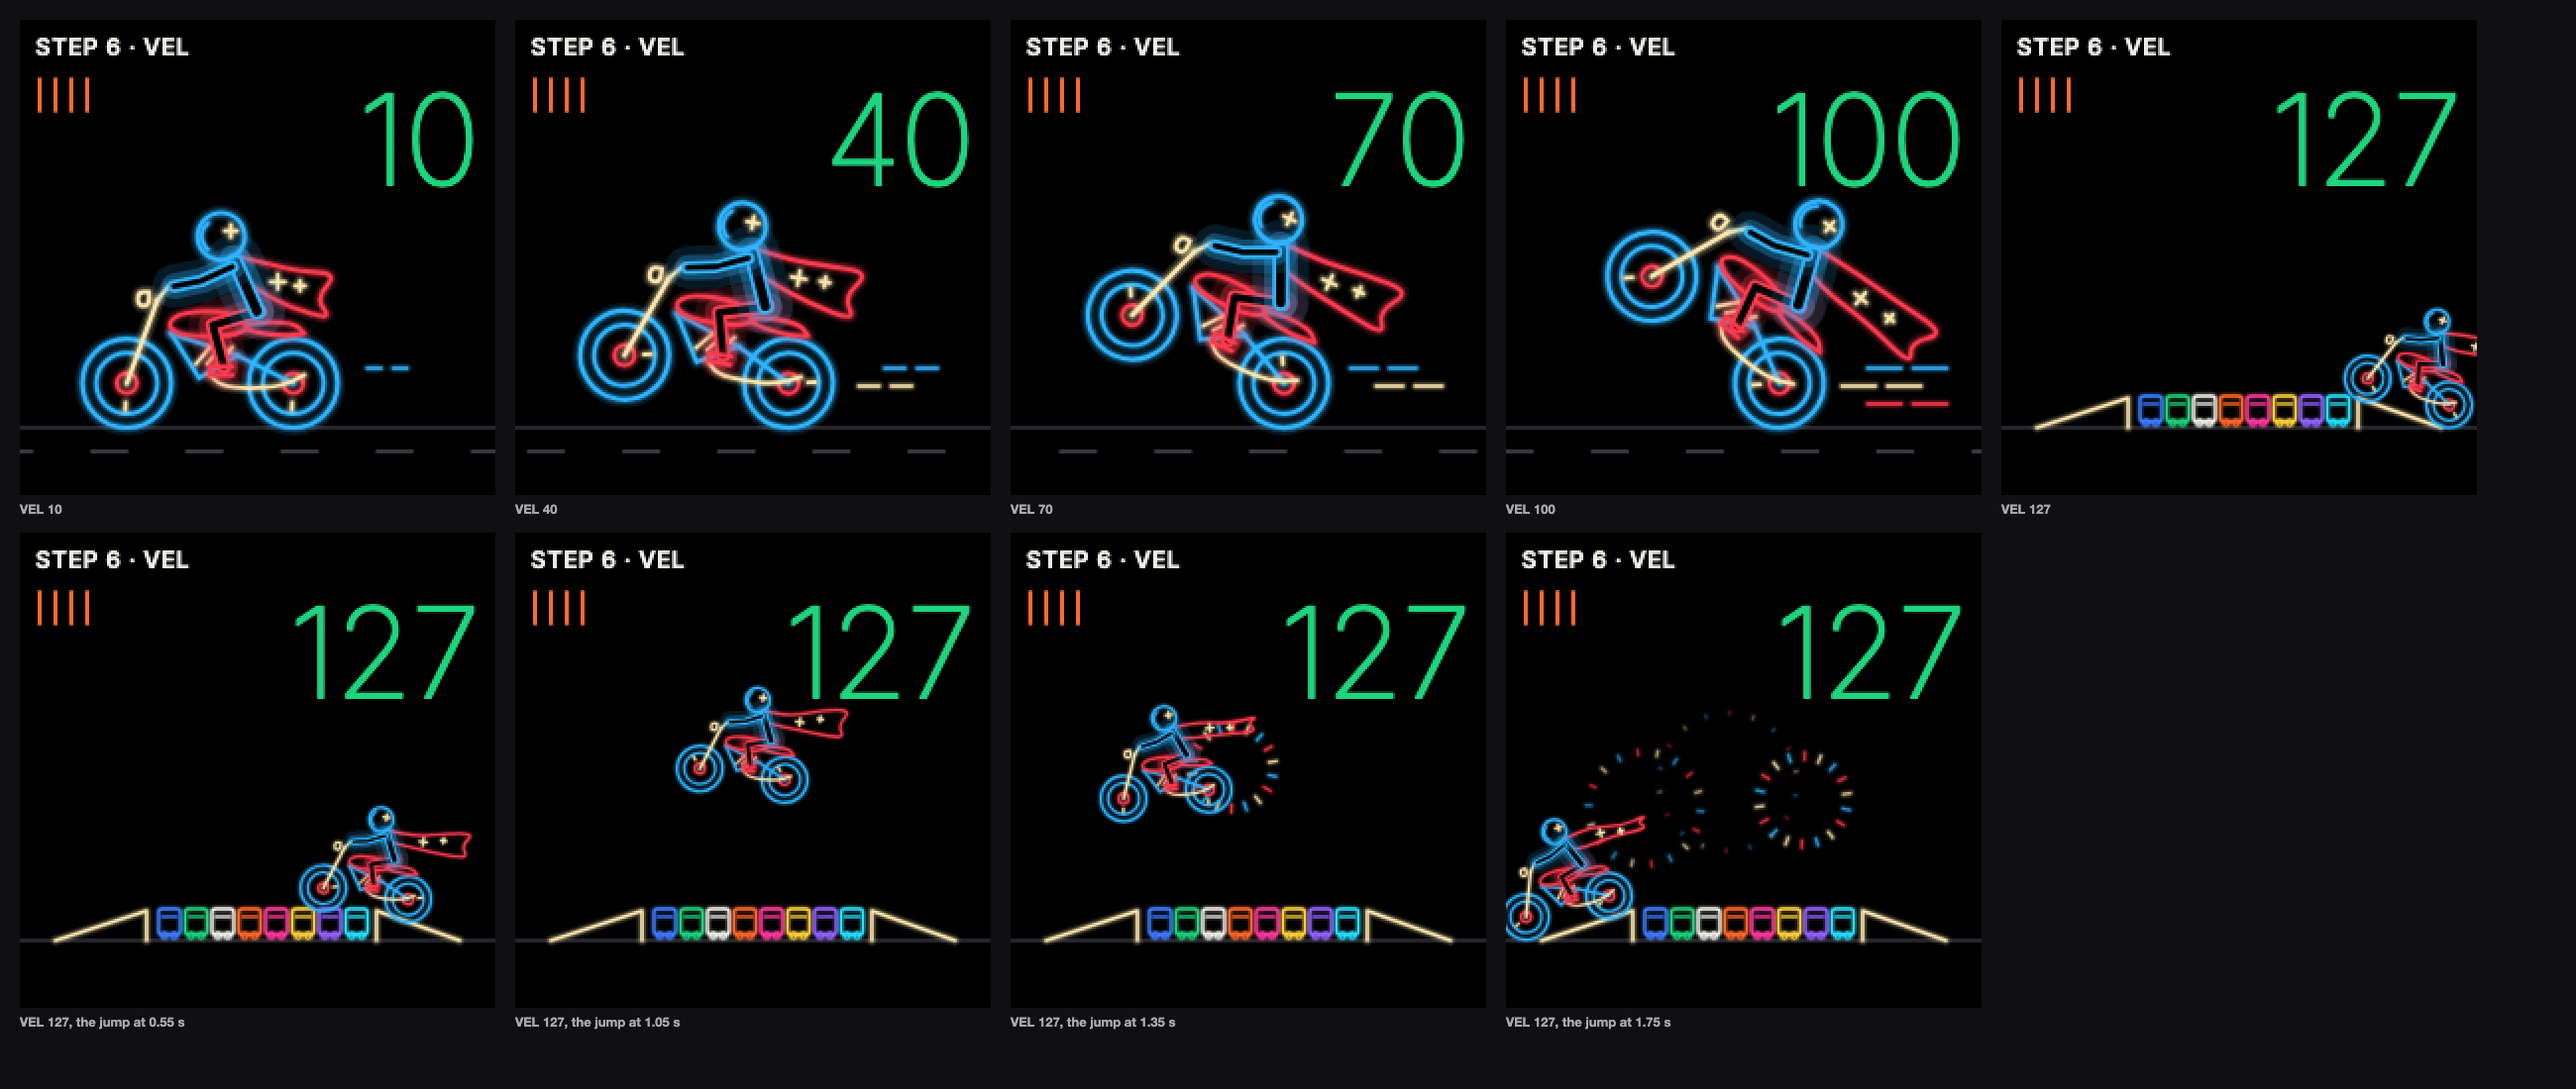
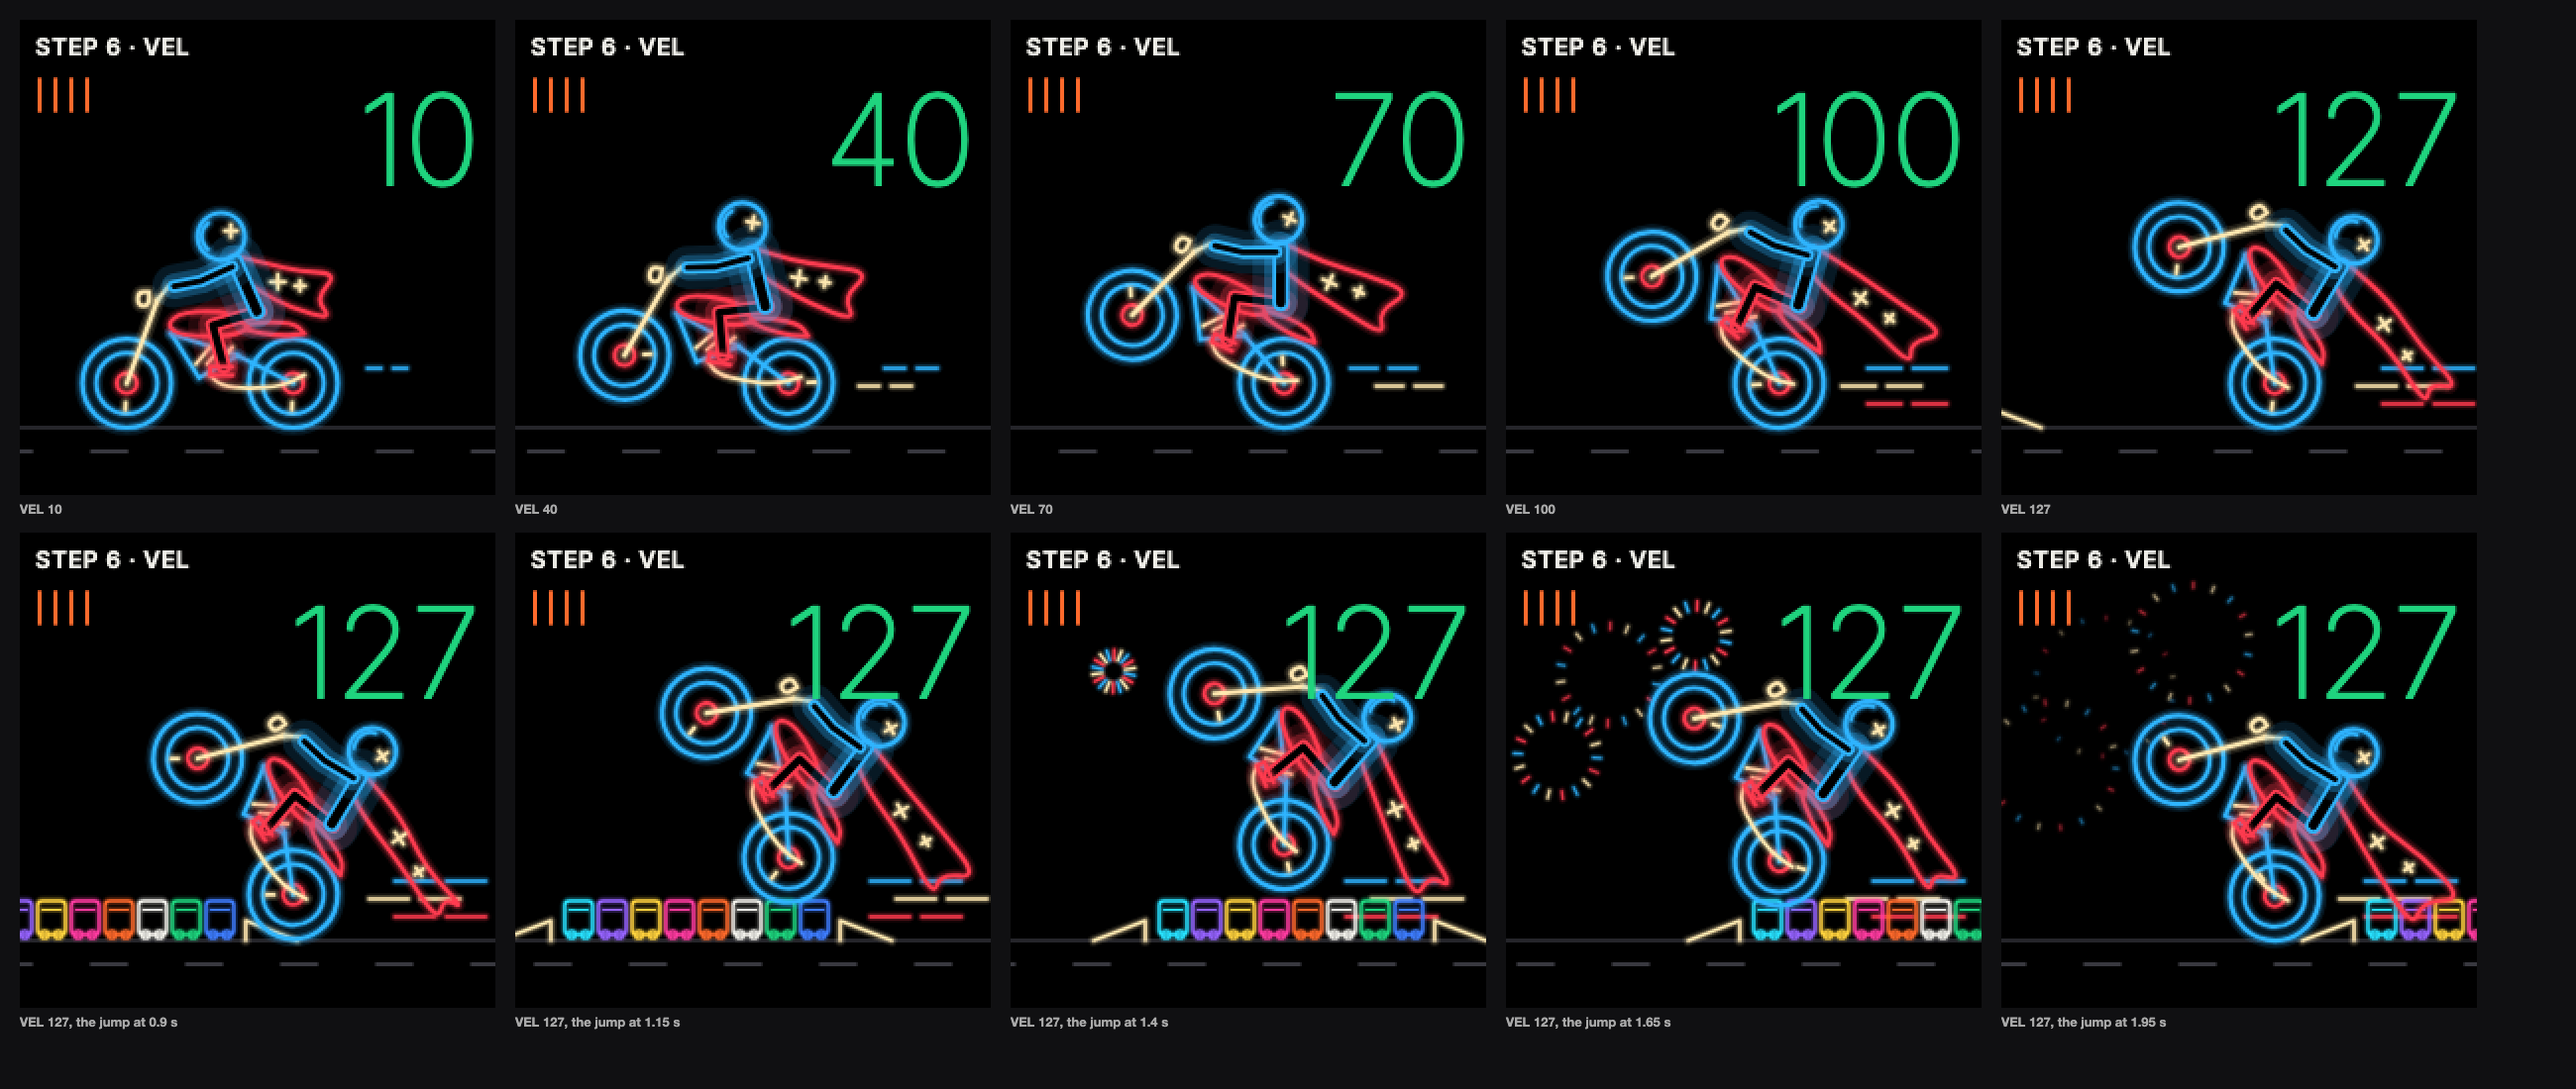
VEL 127 show version 2: the bike stays in place, the ramps and buses scroll under it

diff --git a/mockups/fizz-vel-rider.html b/mockups/fizz-vel-rider.html
@@ -131,33 +131,39 @@ function fireworks(c, x, y, age, seed) {              /* a burst of neon sparks:
     c.restore();
   }
 }
-function jump(c, t) {
-  const gy = 206, k = 0.72, hub = 16 * k, rampH = 15;
-  const tx0 = 222, tx1 = 180, lx1 = 64, lx0 = 18;     /* the takeoff ramp (foot, lip), the landing ramp (lip, foot) */
-  path(c, [0, gy, 240, gy], C.g2, 1.2);
-  ramp(c, tx0, tx1, gy, rampH, N.cream); ramp(c, lx0, lx1, gy, rampH, N.cream);
-  for (let i = 0; i < 8; i++) bus(c, 70 + i * 13.5, gy, TRK[i]);
-  const s = (t % JUMP_P) / JUMP_P, x = lerp(262, -50, s);        /* the rear hub's x, right to left */
-  /* on the ground both wheels follow it (the ramps' heights under the rear and the front wheel set the pitch); between
-     the lips the bike flies a parabola, nose up at takeoff, nose down for the landing */
-  const H = xx => xx <= tx0 && xx > tx1 ? rampH * (tx0 - xx) / (tx0 - tx1) : xx < lx1 && xx >= lx0 ? rampH * (xx - lx0) / (lx1 - lx0) : 0;
-  const wb = 60 * k;
-  let y, pitch;
-  if (x <= tx1 && x > lx1) { const f = (tx1 - x) / (tx1 - lx1);
-    y = gy - hub - rampH - 58 * 4 * f * (1 - f); pitch = lerp(0.42, -0.34, f); }
-  else { const hr = H(x), hf = x - wb > lx1 && x - wb <= tx1 ? rampH : H(x - wb);
-    y = gy - hub - hr; pitch = Math.atan2(hf - hr, wb); }
-  /* fireworks over the buses at the top of the arc, two bursts */
-  const apex = (262 - (tx1 + lx1) / 2) / 312;
-  fireworks(c, 112, 118, (s - apex) / 0.3, 0.2); fireworks(c, 70, 136, (s - apex - 0.08) / 0.3, 1.1); fireworks(c, 150, 134, (s - apex - 0.14) / 0.3, 2.3);
-  c.save(); c.translate(x, y); c.rotate(pitch); c.scale(-k, k); rider(c, 1, t); c.restore();
-  T(c, '127', 232, 84, { s: 64, w: 200, col: C.vel, al: 'right' });
+/* VEL 127, version 2 (the owner: "the motorcycle should visually stay in the same spot"): the bike keeps the full
+   wheelie in the same place and size as at 126; the world scrolls under it (right, at SHOW_V px/s): a takeoff ramp, the
+   eight buses, a landing ramp, once every JUMP_P s. The rear wheel rides up the ramp, flies a little arc over the buses
+   (the nose a little higher: it keeps the helmet clear of the value), lands on the far ramp; fireworks burst over the buses at the top. Returns the lift
+   (px up) and the pitch change for the bike; draws the ramps, buses and fireworks. */
+const SHOW_V = 200, RAMP_W = 26, RAMP_H = 10, BUS_W = 14, BUS_GAP = 3, ARC = 16;
+function show(c, t, rx, gy) {
+  const s = t % JUMP_P, off = SHOW_V * s;
+  const F = -40 + off, L = F - RAMP_W;                         /* the takeoff ramp: its foot (met first), its lip */
+  const B0 = L - 6, LL = B0 - 8 * (BUS_W + BUS_GAP) - 4, LF = LL - RAMP_W;   /* the buses, the landing ramp's lip, foot */
+  nLine(c, [F, gy, L, gy - RAMP_H, L, gy], N.cream, 1.6);
+  nLine(c, [LF, gy, LL, gy - RAMP_H, LL, gy], N.cream, 1.6);
+  for (let i = 0; i < 8; i++) {
+    const x = B0 - (i + 1) * (BUS_W + BUS_GAP) + BUS_GAP, h = 17, col = TRK[i];
+    glowStroke(c, col, 1.4, () => { c.roundRect(x, gy - h - 3, BUS_W, h, 2.5); });
+    nLine(c, [x + 2.5, gy - h + 1.5, x + BUS_W - 2.5, gy - h + 1.5], col, 1.1);
+    nCirc(c, x + 3.5, gy - 3, 2, col, 1.1); nCirc(c, x + BUS_W - 3.5, gy - 3, 2, col, 1.1);
+  }
+  let lift = 0, dp = 0, f = -1;
+  if (rx <= F && rx > L) lift = RAMP_H * (F - rx) / RAMP_W;
+  else if (rx <= L && rx > LL) { f = (L - rx) / (L - LL); lift = RAMP_H + ARC * 4 * f * (1 - f); dp = 0.18 * Math.sin(Math.PI * f); }
+  else if (rx <= LL && rx > LF) lift = RAMP_H * (rx - LF) / RAMP_W;
+  /* fireworks over the buses, after the top of the arc; left of the number */
+  const L0 = -40 - RAMP_W, LL0 = L0 - 6 - 8 * (BUS_W + BUS_GAP) - 4;
+  const tTop = (rx - (L0 + LL0) / 2) / SHOW_V;                 /* when the middle of the buses passes the bike */
+  const age = x => (s - tTop - x) / 0.75;
+  fireworks(c, 52, 70, age(0), 0.2); fireworks(c, 26, 112, age(0.1), 1.1); fireworks(c, 96, 52, age(0.18), 2.3);
+  return { lift, dp };
 }
 
 function screen(c, vel, t, o = {}) {                 /* the rider faces left: the front wheel lifts on the left */
   c.fillStyle = C.bg; c.fillRect(0, 0, 240, 240);
   T(c, 'STEP 6 · VEL', 8, 18, { s: 12, w: 600, ls: 0.8, col: C.k3 });
-  if (vel >= 127) { jump(c, t); for (let i = 0; i < 4; i++) path(c, [10 + i * 8, 30, 10 + i * 8, 46], C.k4, 2); return; }
   const u = clamp(vel / 127, 0, 1), pitch = Math.pow(clamp((u - 0.12) / 0.88, 0, 1), 1.15) * (55 * Math.PI / 180);
   const gy = 206, rx = 138, k = 1.4;                  /* the road's height, the rear wheel's contact, the scale */
   /* the road: its edge and dashes running past (to the right) at the speed */
@@ -169,8 +175,10 @@ function screen(c, vel, t, o = {}) {                 /* the rider faces left: th
   for (let i = 0; i < 3; i++) { if (i >= n) break;
     const y = gy - 30 + i * 9 - (pitch > 0.4 ? 0 : 0), run = (t * sp * 0.6 + i * 13) % 26;
     for (let d = 0; d < 2; d++) { const x = rx + 30 + run + d * (L + 6); nLine(c, [x, y, x + L, y], cols[i], 1.4); } }
+  /* at 127 the stunt show scrolls under the same bike: it lifts and its nose eases a little, nothing else moves */
+  const sh = vel >= 127 ? show(c, t, rx, gy) : { lift: 0, dp: 0 };
   /* the wheelie: the bike turns about its rear axle (the wheel stays on the road); mirrored so it rides left */
-  c.save(); c.translate(rx, gy - 16 * k); c.rotate(pitch); c.scale(-k, k);
+  c.save(); c.translate(rx, gy - 16 * k - sh.lift); c.rotate(pitch + sh.dp); c.scale(-k, k);
   rider(c, u, t); c.restore();
   T(c, String(vel), 232, 84, { s: 64, w: 200, col: C.vel, al: 'right' });
   for (let i = 0; i < 4; i++) path(c, [10 + i * 8, 30, 10 + i * 8, 46], C.k4, 2);      /* the ramp's ticks */
@@ -183,7 +191,7 @@ function screen(c, vel, t, o = {}) {                 /* the rider faces left: th
   if (q.has('shot')) { document.body.className = 'shot'; const cv = mk(); screen(cv.getContext('2d'), +q.get('shot'), +(q.get('t') || 0.3)); document.body.appendChild(cv); return; }
   const row = document.createElement('div'); row.className = 'row'; document.body.appendChild(row);
   const list = q.has('sheet') ? [10, 40, 70, 100, 127] : [null];
-  const jumpT = q.has('sheet') ? [0.55, 1.05, 1.35, 1.75] : [];
+  const jumpT = q.has('sheet') ? [0.9, 1.15, 1.4, 1.65, 1.95] : [];
   document.body.className = q.has('sheet') ? 'sheet' : 'live';
   const live = [];
   list.forEach(v => { const f = document.createElement('figure'); f.style.margin = 0; const cv = mk(); cv.className = 'big'; f.appendChild(cv);

diff --git a/PLAN.md b/PLAN.md
@@ -1089,10 +1089,12 @@ P1.5c).
   and legs (tubes: a line with a black core), cream engine fins, exhaust, fork and lamp; every line glows (two wide
   faint strokes under it); dashed speed lines in blue, cream and red behind the rear wheel.
 - **VEL 127, the stunt show** (the owner: "Would be fun if something special happened at maxed value of 127"):
-  `mockups/fizz-vel-rider.html` (`jump()`), `mockups/png/fizz-vel-127-jump.gif`. At 127 the screen changes: a takeoff
-  ramp, **eight buses in the tracks' colours**, a landing ramp; the rider (smaller) comes in from the right, leaps the
-  buses, **neon fireworks** burst over them at the top of the arc, lands and rides off left, round again every 2.6 s
-  while the value stays 127. On the ground both wheels follow the ramps.
+  `mockups/fizz-vel-rider.html` (`show()`), `mockups/png/fizz-vel-127-jump.gif`. Version 2 (the owner: "a bit too
+  different from the full wheelie ... the motorcycle should visually stay in the same spot"): the bike keeps the full
+  wheelie in the same place and size as at 126; **the world scrolls under it** (200 px/s, every 2.6 s): a takeoff ramp
+  (10 high), **eight buses in the tracks' colours**, a landing ramp; the rear wheel rides up, flies a small arc (16)
+  over the buses with the nose a little higher (keeps the helmet clear of the value), lands; **neon fireworks** burst
+  over the buses as their middle passes.
 
 ### The clarity rules (the owner, 2026-10-19: "strong visually, powerful gesture based, and not require the user to be squinting all the time")
 
